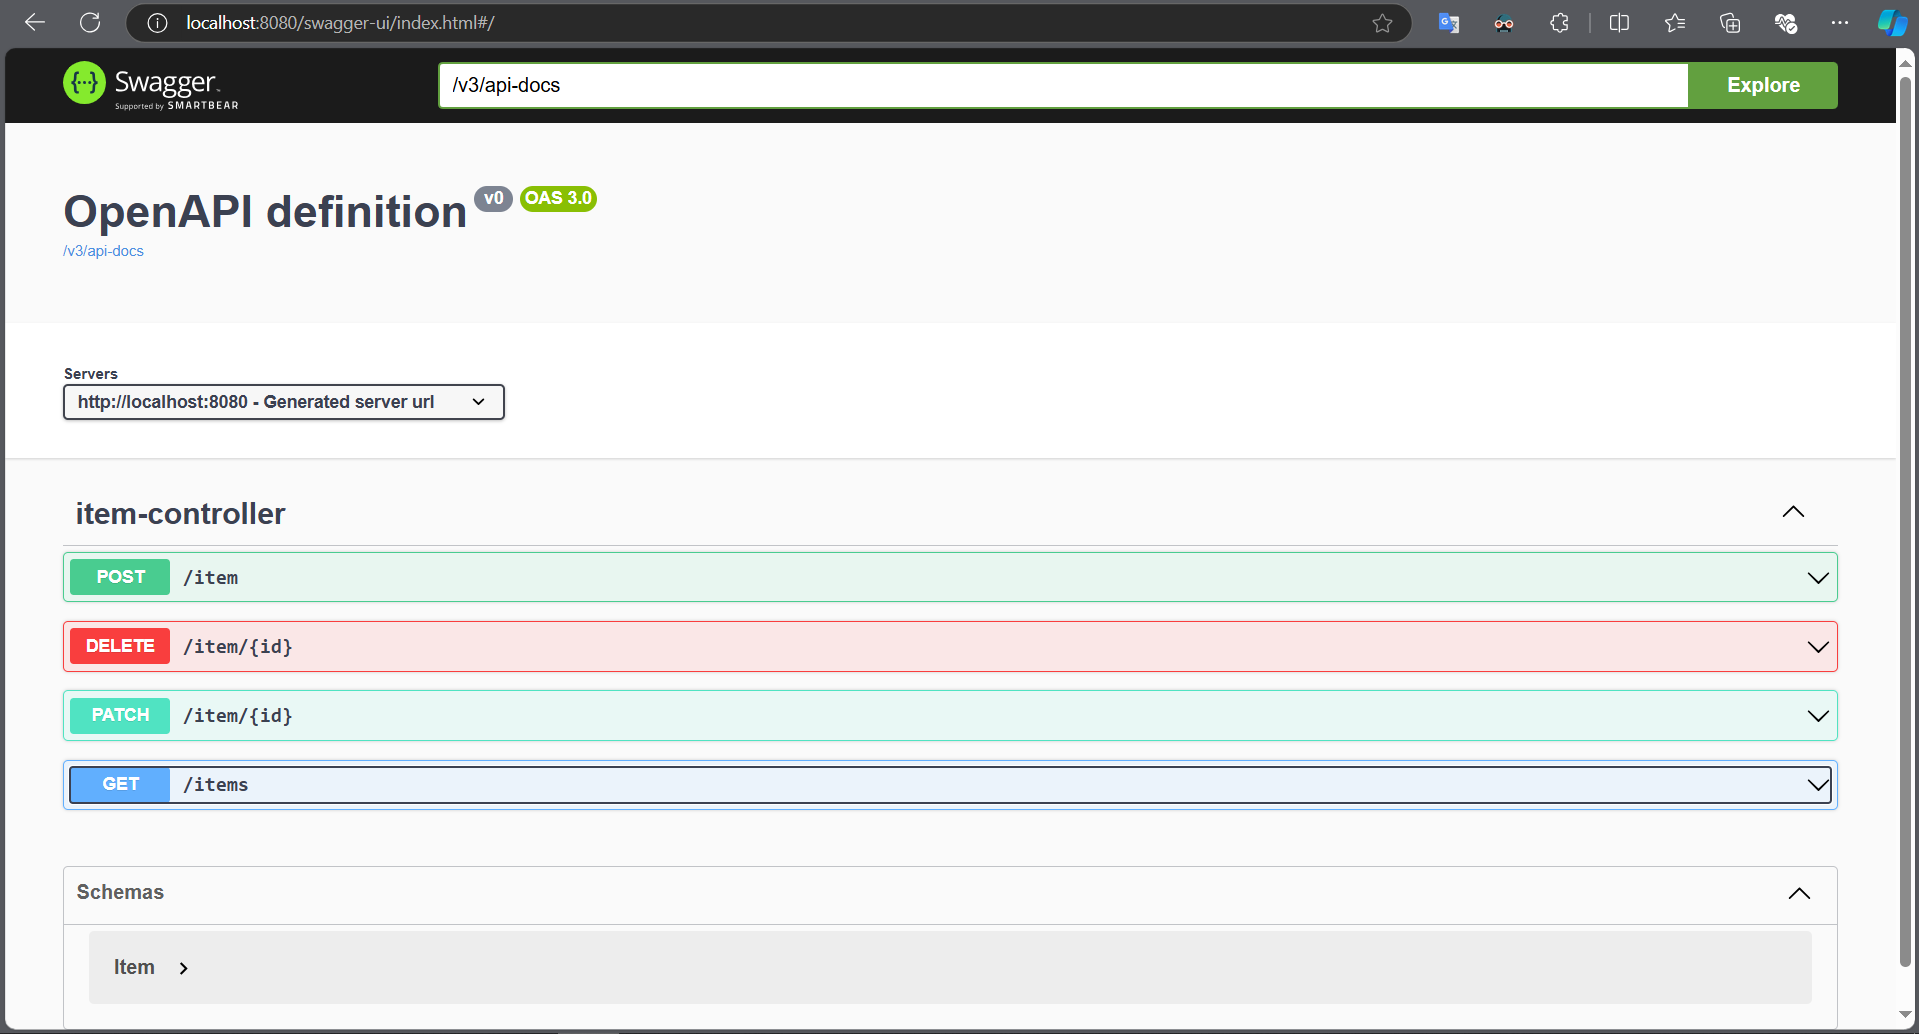
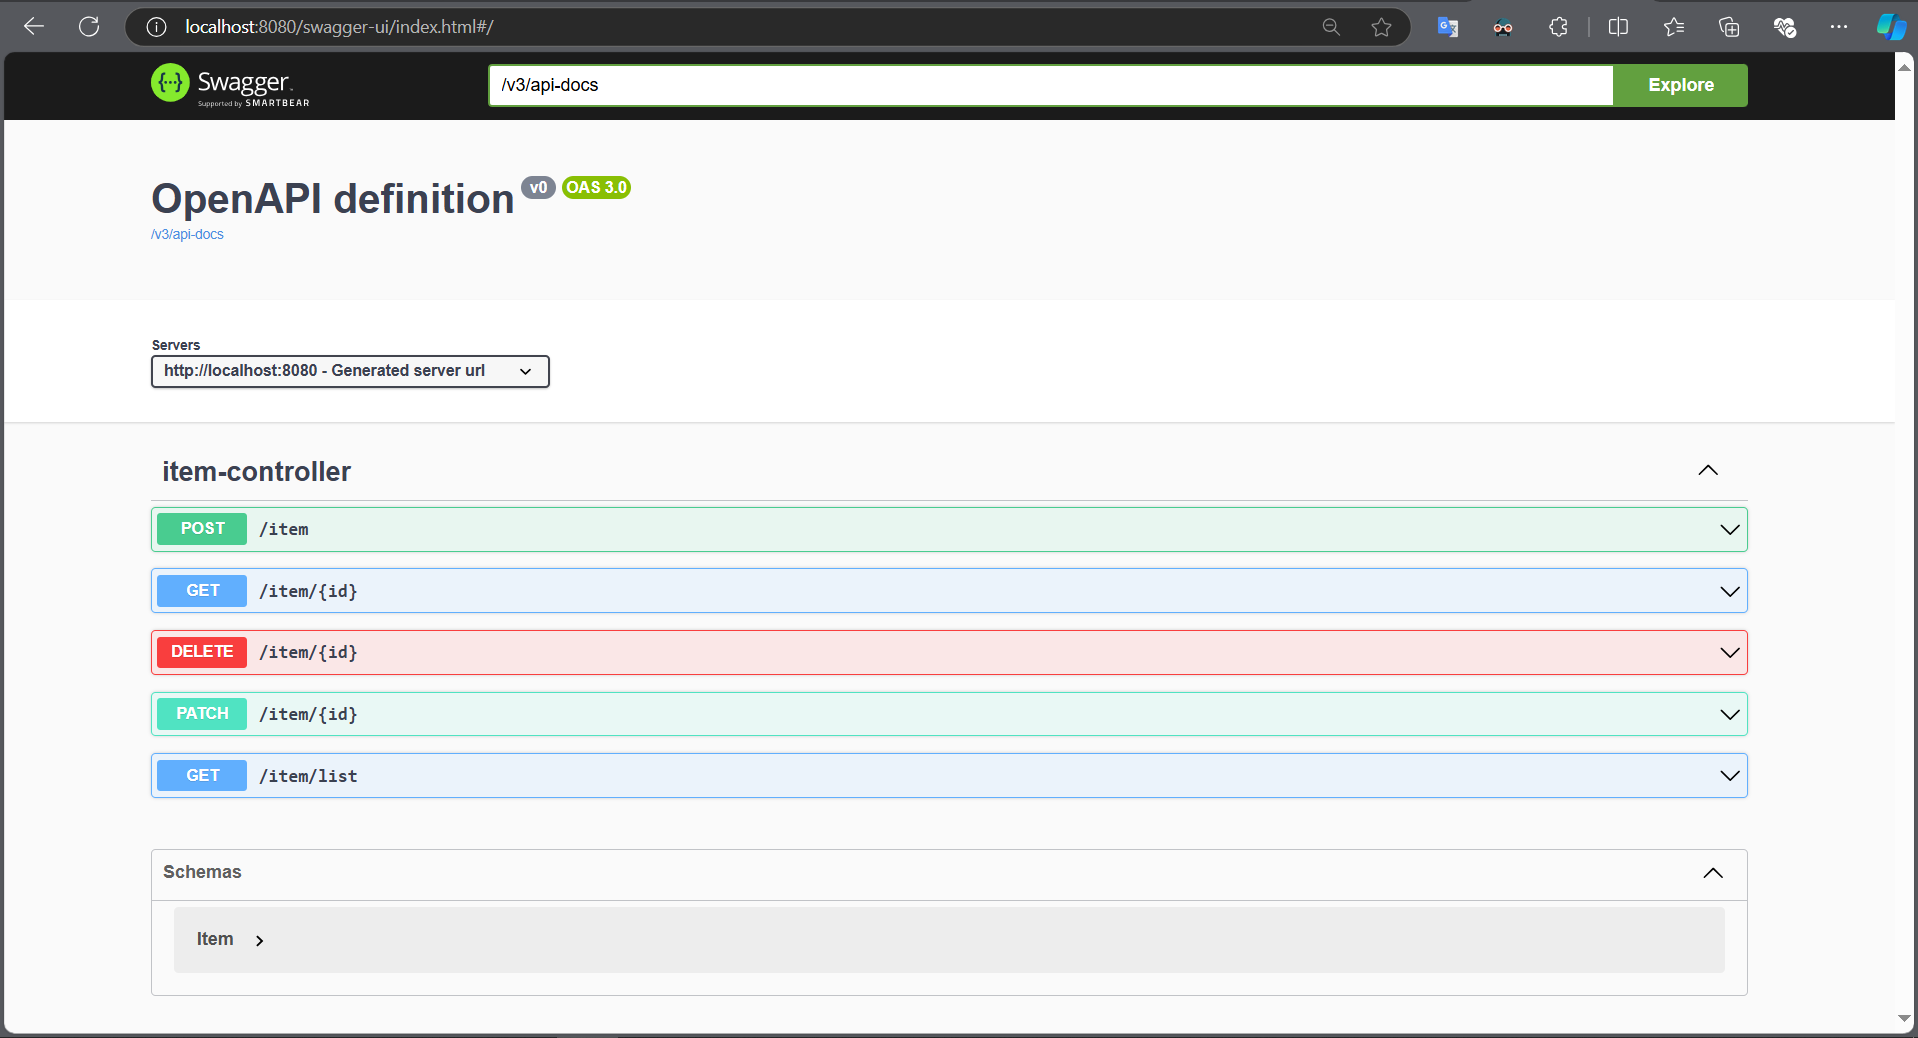
Add GET one item endpoint and refactor wrap endpoints with ResponseEntity

diff --git a/src/main/java/com/dotpep/productcrud/controller/ItemController.java b/src/main/java/com/dotpep/productcrud/controller/ItemController.java
@@ -27,17 +27,30 @@ public class ItemController {
     @Autowired
     ItemRepository repo;
 
-    @GetMapping("/items")
-    public List<Item> getAllItems(){
-        return repo.findAll();
+    @GetMapping("/item/list")
+    public ResponseEntity<List<Item>> getAllItems(){
+        List<Item> items = repo.findAll();
+        return ResponseEntity.ok(items);
+    }
+
+    @GetMapping("/item/{id}")
+    public ResponseEntity<Item> getOneItem(
+        @PathVariable(value = "id") String itemId) throws ResourceNotFoundException {
+        Item item = repo.findById(itemId).orElseThrow(
+            () -> new ResourceNotFoundException("Item not found with id : " + itemId));
+        
+        return ResponseEntity.ok(item);
     }
 
     @PostMapping("/item")
-    public Item createItem(@RequestBody Item item){
+    public ResponseEntity<Item> createItem(@RequestBody Item item){
         System.out.println("Saving Item: " + item);
 
         item.setCreatedAt(LocalDateTime.now());
-        return repo.save(item);
+        item.setUpdatedAt(LocalDateTime.now());
+        Item newItem = repo.save(item);
+
+        return ResponseEntity.ok(newItem);
     }
 
     @PatchMapping("/item/{id}")

diff --git a/src/main/java/com/dotpep/productcrud/model/Item.java b/src/main/java/com/dotpep/productcrud/model/Item.java
@@ -15,6 +15,8 @@ public class Item {
     private String description;
     private BigDecimal price;
 
+    private String title;
+
     private LocalDateTime createdAt;
     private LocalDateTime updatedAt;
 
@@ -72,7 +74,7 @@ public class Item {
 
     @Override
     public String toString() {
-        return "Item [id=" + id + ", name=" + name + ", description=" + description + ", price=" + price
-                + ", createdAt=" + createdAt + ", updatedAt=" + updatedAt + "]";
+        return "Item [id=" + id + ", name=" + name + ", description=" + description + ", price=" + price + ", title="
+                + title + ", createdAt=" + createdAt + ", updatedAt=" + updatedAt + "]";
     }
 }
